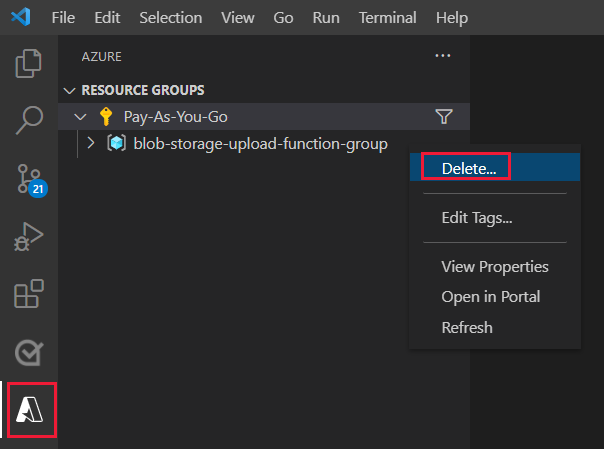
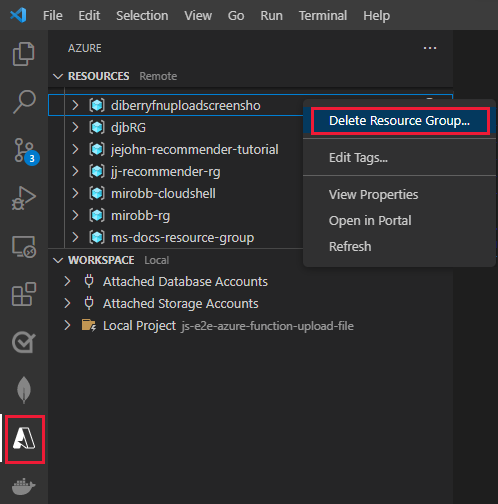
edits

diff --git a/articles/javascript/how-to/with-web-app/azure-function-file-upload.md b/articles/javascript/how-to/with-web-app/azure-function-file-upload.md
@@ -65,9 +65,7 @@ A resource group holds both the Azure Function resource and the Azure Storage re
 
 1. Create a new folder on your local workstation, then open Visual Studio Code in this folder. 
 
-1. In Visual Studio Code, select the Azure explorer, then expand the **Azure Functions** explorer, then select the **Create New Project** command:
-
-    :::image type="content" source="../../media/azure-function-file-upload-binding/create-function-app-project.png" alt-text="Partial screenshot of Visual Studio Code to create a local Function project.":::
+1. In Visual Studio Code, open the **Command Palette** (View -> Command Palette | <kbd>Ctrl</kbd> + <kbd>Shift</kbd> + <kbd>P</kbd>), then filter and select **Azure Functions: Create New Project ...**
 
 1. Use the following table to finish creating the local Azure Function project:
 
@@ -145,11 +143,15 @@ Now that the basic project folder structure and files are in place, add local st
 
 1. Open the `./upload/index.ts` file and replace the contents with the following code:
 
-    :::code language="TypeScript" source="~/../js-e2e-azure-function-upload-file/upload/index.ts" range="35-102" highlight="72-88":::
+    :::code language="TypeScript" source="~/../js-e2e-azure-function-upload-file/upload/index.ts" range="35-134" highlight="67-87":::
 
     The `filename` query string parameter is required because the _out_ binding needs to know the name of the file to create. The `username` query string parameter is required because it becomes the Storage container (folder) name. For example, if the user name is `jsmith` and the file name is `test-file.txt`, the Storage location is `jsmith/test-file.txt`. 
 
     The code to read the file and send it to the out binding is highlighted.
+
+1. Create a new file named `azure-storage-blob-sas-url.ts`, then copy the following code into the file to generate a SAS token for the uploaded file. 
+
+    :::code language="TypeScript" source="~/../js-e2e-azure-function-upload-file/upload/index.ts" highlight="39-44":::
 
 ## <a name="#configure-the-function-to-connect-to-azure-storage"></a>6. Connect Azure Function to Azure Storage
 
@@ -181,41 +183,14 @@ Now that the basic project folder structure and files are in place, add local st
 
     :::code language="TEXT" source="~/../js-e2e-azure-function-upload-file/test-file.txt" :::
 
-1. In Visual Studio Code, open a new bash terminal at the root of the project to use the function API to upload the `test-file.txt`:
+1. In Visual Studio Code, open a new bash terminal at the root of the project to use the function API to upload the `test-file.txt`. Copy the bash script to the terminal and execute it.
 
-    ```bash
-    curl -X POST \
-    -F 'filename=@test-file.txt' \
-    -H 'Content-Type: text/plain' \
-    'http://localhost:7071/api/upload?filename=test-file.txt&username=jsmith' --verbose
-    ```
+    :::code language="bash" source="~/../js-e2e-azure-function-upload-file/upload.sh":::
 
 1. Check the response for a status code of 200:
 
-    ```console
-    Note: Unnecessary use of -X or --request, POST is already inferred.
-    *   Trying ::1:7071...
-    *   Trying 127.0.0.1:7071...
-    * Connected to localhost (127.0.0.1) port 7071 (#0)  
-    > POST /api/upload?filename=README.md&username=jsmith HTTP/1.1
-    > Host: localhost:7071
-    > User-Agent: curl/7.77.0
-    > Accept: */*
-    > Content-Length: 964
-    > Content-Type: multipart/form-data; boundary=------------------------549ebfc06c8f40ab
-    >
-    * We are completely uploaded and fine
-    * Mark bundle as not supporting multiuse
-    < HTTP/1.1 200 OK
-    < Date: Mon, 27 Sep 2021 16:53:56 GMT
-    < Content-Type: text/plain; charset=utf-8
-    < Server: Kestrel
-    < Transfer-Encoding: chunked
-    <
-    {
-      "string": "jsmith/README.md"
-    }* Connection #0 to host localhost left intact
-    ```
+    :::code language="console" source="~/../js-e2e-azure-function-upload-file/response.txt":::
+
 
 1. In Visual Studio Code, in the file explorer, expand the **azureStorage/_blobstorage_** folder and view the contents of the file. 
 
@@ -225,13 +200,13 @@ Now that the basic project folder structure and files are in place, add local st
 
 <a name="use-visual-studio-code-extension-to-deploy-to-hosting-environment"></a>
 
-## 8. Deploy to Azure with Visual Studio Code
+## 8. Create Functions App resource 
 
-1. In Visual Studio Code, open the **Azure Explorer**, then right-click the deployment icon under **Functions** to deploy your app:
+1. In Visual Studio Code, select the Azure explorer, then right-click on **Function App**, then select **Create Function App in Azure (Advanced)**. 
 
-    :::image type="content" source="../../media/azure-function-file-upload-binding/visual-studio-code-function-deploy-app.png" alt-text="Partial screenshot of Visual Studio Code to deploy to Azure Functions command.":::
+    :::image type="content" source="../../media/azure-function-file-upload-binding/visual-studio-code-create-function-app-resource-advanced-selection.png" alt-text="Partial screenshot of Visual Studio Code's Azure Explorer showing the Resources area, Function App with the right-click menu item highlighted.":::
 
-    Alternately, you can deploy by opening the **Command Palette** (**F1**), entering `deploy to function app`, and running the **Azure Functions: Deploy to Function App** command.
+    Alternately, you can create a Funcions App by opening the **Command Palette** (**F1**), entering `Azure Functions:`, and running the **Azure Functions: Create Function App in Azure (Advanced)** command.
 
 1. Use the following table to complete the prompts to create a new Azure Function resource. 
 
@@ -249,13 +224,17 @@ Now that the basic project folder structure and files are in place, add local st
     |Select an Application Insights resource for your app.|+ Create new Application Insights resource.||
     |Enter an Application Insights resource for your app.|`blob-storage-upload-function-app-insights`||
 
-1. The Visual Studio Code **Output** panel for **Azure Functions** shows progress:
+1. The Visual Studio Code **Azure: Activity log** shows progress:
 
-    :::image type="content" source="../../media/azure-function-file-upload-binding/visual-studio-code-function-create-resource-output.png" alt-text="Screenshot of Visual Studio Code output window creating a function resource.":::
+    :::image type="content" source="../../media/azure-function-file-upload-binding/visual-studio-create-function-app-azure-activity-log" alt-text="Screenshot of Visual Studio Code output window creating a function resource.":::
 
-    When deploying, the entire Functions application is deployed, any changes to individual APIs are deployed at once.
+1. In Visual Studio Code, select the Azure explorer, then right-click on your new app in **Function App** resource area, then select **Deploy to Function app**. 
 
-## 9. Create an Azure Storage Resource
+1. Select the notification link to see the output of the deployment. 
+
+    When this is complete, your Function App isn't configured to use Azure Blob Storage yet. 
+
+## 10. Create an Azure Storage Resource
 
 1. In Visual Studio Code, select the Azure explorer, then right-click on your subscription under **Storage** to select **Create Storage Account (Advanced)**.
 1. Use the following table to finish creating the local Azure Function project:
@@ -270,102 +249,41 @@ Now that the basic project folder structure and files are in place, add local st
 <a name="copy-the-storage-connection-string-into-azure-function-application-setting"></a>
 <a name="copy-the-storage-connection-string-into-function-app-setting"></a>
 
-## 10. Set Storage connection string in Function app setting
+## 11. Set Storage connection string in Function app setting
 
 1. In Visual Studio Code, select the Azure explorer, then right-click on your new storage resource, and select **Copy Connection String**.
 1. Still in the Azure explorer, expand your Azure Function app, then expand the **Application Settings** node and right-click **AzureWebJobsStorage** to select **Edit Setting**.
 1. Paste in the Azure Storage connection string and press enter to complete the change. 
 
-## <a name="#verify-functions-app-is-available-with-browser"></a>11. Use cloud-based function
+    When **moving to production**, this connection string setting and its environment variable in the source code should be replaced [**DefaultAzureCredential**](/javascript/api/overview/azure/identity-readme#defaultazurecredential) in order to use credential-less authentication.
+
+## <a name="#verify-functions-app-is-available-with-browser"></a>12. Use cloud-based function
 
 Once deployment is completed and the _AzureWebJobsStorage_ app setting have been updated, test your Azure Function.
 
-1. Open a text file and copy in the following: 
+### Get function url 
+
+1. In Visual Studio Code, create a bash file named `upload-azure.sh` and copy the following code into the file.
+
+    :::code language="bash" source="~/../js-e2e-azure-function-upload-file/upload-azure.sh":::
+
+1. In Visual Studio Code, select the Azure explorer, then expand the node for your Functions app, then expand **Functions**. Right-click the function name, `upload` and select **Copy Function Url**.
+
+1. Execute that bash script in the terminal from the project's root folder:
 
     ```bash
-    curl -X POST \
-    -F 'filename=@test-file.txt' \
-    -H 'Content-Type: text/plain' \
-    'REPLACE-WITH-YOUR-FUNCTION-URL' --verbose
+    bash upload-azure.sh
     ```
 
+1. Check the response for a status code of 200:
 
-1. In Visual Studio Code, select the Azure explorer, then expand the node for your Functions app, then expand **Functions**. Right-click the function name, `upload` and select **Copy Function Url**:
-
-    :::image type="content" source="../../media/azure-function-file-upload-binding/visual-studio-code-function-copy-url.png" alt-text="Screenshot of Visual Studio Code with Copy Function URL highlights in Azure Explorer for Functions.":::
-
-1. Paste the URL into a text file overwriting `REPLACE-WITH-YOUR-FUNCTION-URL`.
-1. Append the filename and username query string name/value pairs:
-
-    |Name|Value|
-    |--|--|
-    |username|`jsmith`|
-    |filename|`test-file.txt`|
-
-    The final cURL command format should be similar to the following, except for your own substitutions for username and function resource name:
-
-    ```bash
-    curl -X POST \
-    -F 'filename=@test-file.txt' \
-    -H 'Content-Type: text/plain' \
-    'https://blob-storage-upload-function-app-jsmith.azurewebsites.net/api/randomnumber?code=12345&filename=test-file.txt&username=jsmith' --verbose
-    ```
-
-    The value for `code` in your own URL will be a much longer value. 
-
-1. Copy the complete cURL command and run it in a Visual Studio Code bash terminal at the root of your function app to upload the root file, `test-file.txt`.
-
-    ```console
-    *   Trying 000.49.104.16:443...
-    * Connected to blob-storage-upload-function-app-jsmith.azurewebsites.net (20.49.104.16) port 443 (#0)
-    * ALPN, offering h2
-    * ALPN, offering http/1.1
-    * successfully set certificate verify locations:
-    *  CAfile: C:/Program Files/Git/mingw64/ssl/certs/ca-bundle.crt
-    *  CApath: none
-    * TLSv1.3 (OUT), TLS handshake, Client hello (1):
-    * TLSv1.3 (IN), TLS handshake, Server hello (2):
-    * TLSv1.2 (IN), TLS handshake, Certificate (11):
-    * TLSv1.2 (IN), TLS handshake, Server key exchange (12):
-    * TLSv1.2 (IN), TLS handshake, Server finished (14):
-    * TLSv1.2 (OUT), TLS handshake, Client key exchange (16):
-    * TLSv1.2 (OUT), TLS change cipher, Change cipher spec (1):
-    * TLSv1.2 (OUT), TLS handshake, Finished (20):
-    * TLSv1.2 (IN), TLS handshake, Finished (20):
-    * SSL connection using TLSv1.2 / ECDHE-RSA-AES256-GCM-SHA384
-    * ALPN, server did not agree to a protocol
-    * Server certificate:
-    *  subject: CN=*.azurewebsites.net
-    *  start date: Jul  7 18:20:52 2021 GMT
-    *  expire date: Jul  7 18:20:52 2022 GMT
-    *  subjectAltName: host "blob-storage-upload-function-app-jsmith.azurewebsites.net" matched cert's "*.azurewebsites.net"*  issuer: C=US; O=Microsoft Corporation; CN=Microsoft RSA TLS CA 02
-    *  SSL certificate verify ok.
-    > POST /api/upload?code=123456&filename=test-file.txt&username=jsmith HTTP/1.1
-    > Host: blob-storage-upload-function-app-jsmith.azurewebsites.net
-    > User-Agent: curl/7.75.0
-    > Accept: */*
-    > Content-Length: 566
-    > Content-Type: multipart/form-data; boundary=------------------------57d6fc242c9faa80
-    >
-    * We are completely uploaded and fine
-    * Mark bundle as not supporting multiuse
-    < HTTP/1.1 200 OK
-    < Transfer-Encoding: chunked
-    < Content-Type: text/plain; charset=utf-8
-    < Request-Context: appId=cid-v1:234a5745-1c92-46c6-84a3-6b4d6bb87e40
-    < Date: Tue, 28 Sep 2021 16:45:52 GMT
-    <
-    {
-      "string": "jsmith/test-file.txt"
-    }* Connection #0 to host blob-storage-upload-function-app-jsmith.azurewebsites.net left intact
-    ```
-
+    :::code language="console" source="~/../js-e2e-azure-function-upload-file/response.cloud.txt":::
 
 1. In Visual Studio Code, open the Azure explorer, expand your Storage blob resource, under containers, and find the container name that matches your username value in the query string. 
 
     :::image type="content" source="../../media/azure-function-file-upload-binding/visual-studio-code-storage-container-file.png" alt-text="Screenshot of Visual Studio Code showing the Azure explorer's Storage node with the file uploaded.":::
 
-## 11. Query your Azure Function logs
+## 13. Query your Azure Function logs
 
 1. In Visual Studio Code, select the Azure explorer, then under **Functions**, right-click on your function app, then select **Open in Portal**.
 
@@ -395,16 +313,18 @@ Once deployment is completed and the _AzureWebJobsStorage_ app setting have been
     :::image type="content" source="../../media/azure-function-file-upload-binding/azure-portal-function-application-insight-trace-message.png" alt-text="Browser screenshot showing Azure portal Kusto query result for Trace table." lightbox="../../media/azure-function-file-upload-binding/azure-portal-function-application-insight-trace-message.png":::
    
 
-## 12. Clean up Azure resources
+## 14. Clean up Azure resources
 
-1. In Visual Studio Code, in the Azure explorer, find the resource group name, `blob-storage-upload-function-group`, in the list.
-1. Right-click the resource group name and select **Delete**.
+1. In Visual Studio Code, in the Azure explorer, use the **Group by** feature to switch the Resources view to **Group by Resource Group**. 
+1. Find your resource group name, such as `blob-storage-upload-function-group`, in the list.
+1. Right-click the resource group name and select **Delete Resource Group**.
 
     :::image type="content" source="../../media/azure-function-file-upload-binding/visual-studio-code-resource-group-delete.png" alt-text="Use the Visual Studio Code extension, Azure Resource Groups, to delete the resource group and all resources within the group.":::
 
 ## Troubleshooting
 
-If you try to use this sample and run into an error regarding `split` from the `parse-multipart` library, verify that you are sending the `filename` property in your multiform data and that you are sending the `content-type` header into the function.NET
+* **SPLIT**: If you try to use this sample and run into an error regarding `split` from the `parse-multipart` library, verify that you are sending the `filename` property in your multiform data and that you are sending the `content-type` header into the function
+* **Debug in Dev Container**: If you run this app in its dev container in Visual Studio Code, make sure the Azure Function extensions in installed and _enabled_ in the dev container. You may have to rebuild the container.
 
 
 ## Next steps
